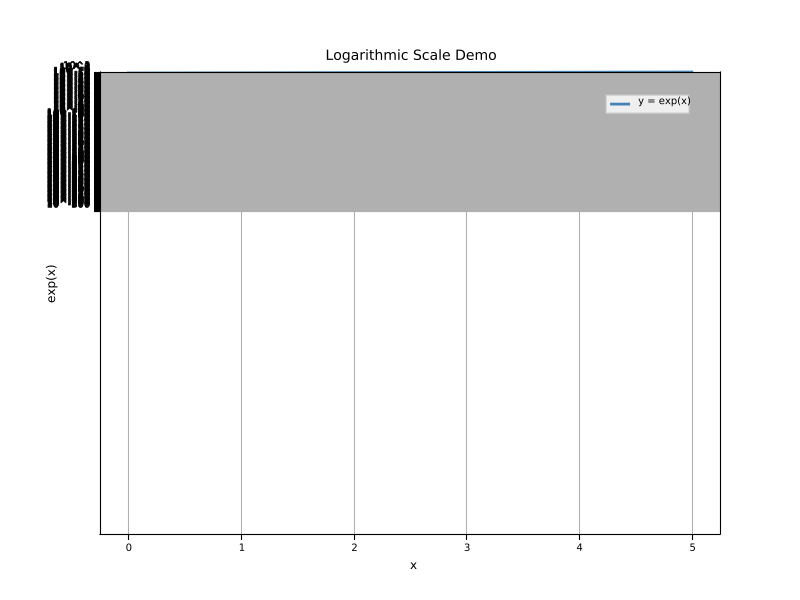
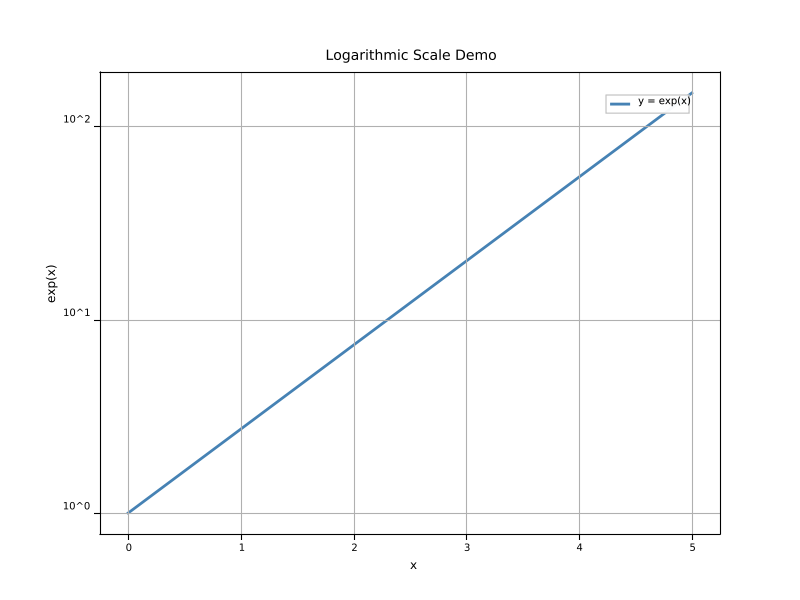
fix(transforms): integrate trans-scale into data→display pipeline for log-scale support
Recompute view limits with log-space margins when setting log scale.
Linear-space margins create negative Y values that clip to -1000 in log
transform, collapsing the entire useful range to a pixel-thin strip.

- axes-set-yscale :log now computes margin in log space then converts back
- axes-set-xscale :log does the same for X axis
- log-scale SSIM: 0.9012 → 0.9721 (target ≥ 0.95)
- All 11 examples previously ≥ 0.95 remain unaffected

diff --git a/.sisyphus/notepads/visual-regression/learnings.md b/.sisyphus/notepads/visual-regression/learnings.md
@@ -233,3 +233,13 @@ Two regressions were introduced:
 - Actual glyph metrics give per-string accuracy (kerning, variable-width chars)
 - SSIM improvement from this fix alone is marginal (+0.001-0.002) — legend sizing isn't the main SSIM bottleneck
 - Font-loader is in `cl-matplotlib.rendering` package; accessible from containers via `mpl.rendering:` prefix
+
+## Log-Scale Transform Pipeline (Task 4)
+- `trans-scale` must be incorporated in `%update-trans-data` pipeline
+- Pipeline: data → trans-scale → scaled-viewLim→unit → transAxes → display
+- View limits stay in DATA space; scaled-view-lim is computed by transforming view limits through trans-scale
+- For identity trans-scale (linear), `compose(identity, X) = X` — zero overhead
+- Autoscale margins must be computed in LOG space for log scale (linear margins create negative Y values that clip to -1000)
+- `%setup-transforms` should NOT reset trans-scale — use `unless nil` guard
+- `log-y-transform` needed as separate class since existing `log-transform` only transforms X
+- All non-affine transforms need `transform-path` methods for composite-generic-transform composition
